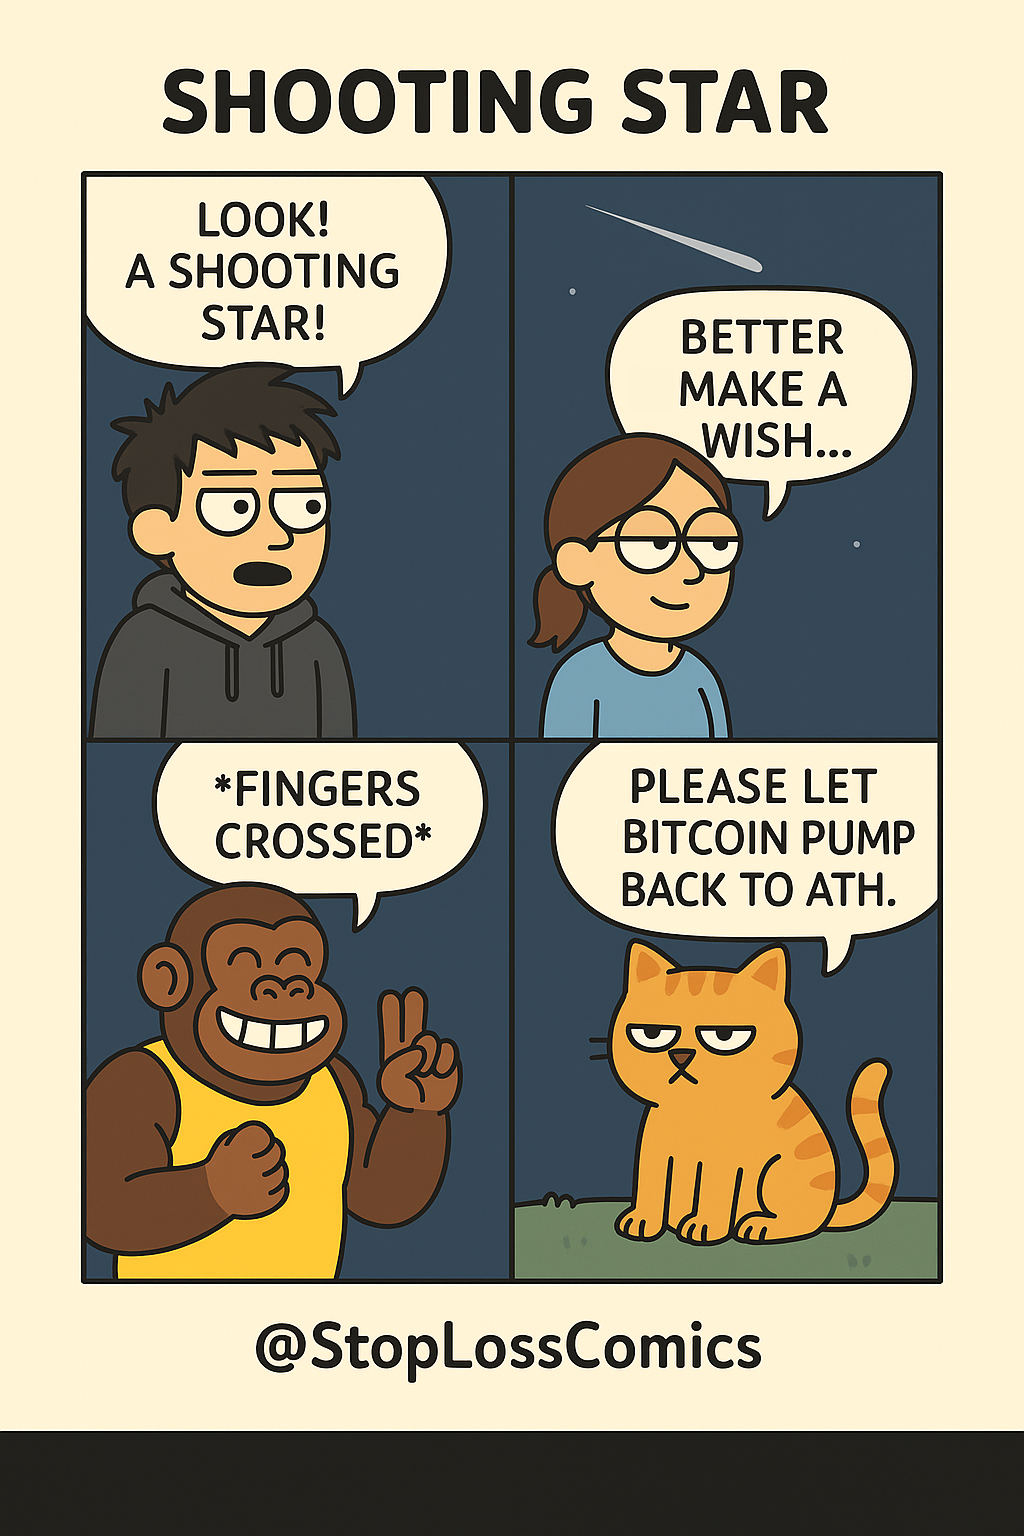
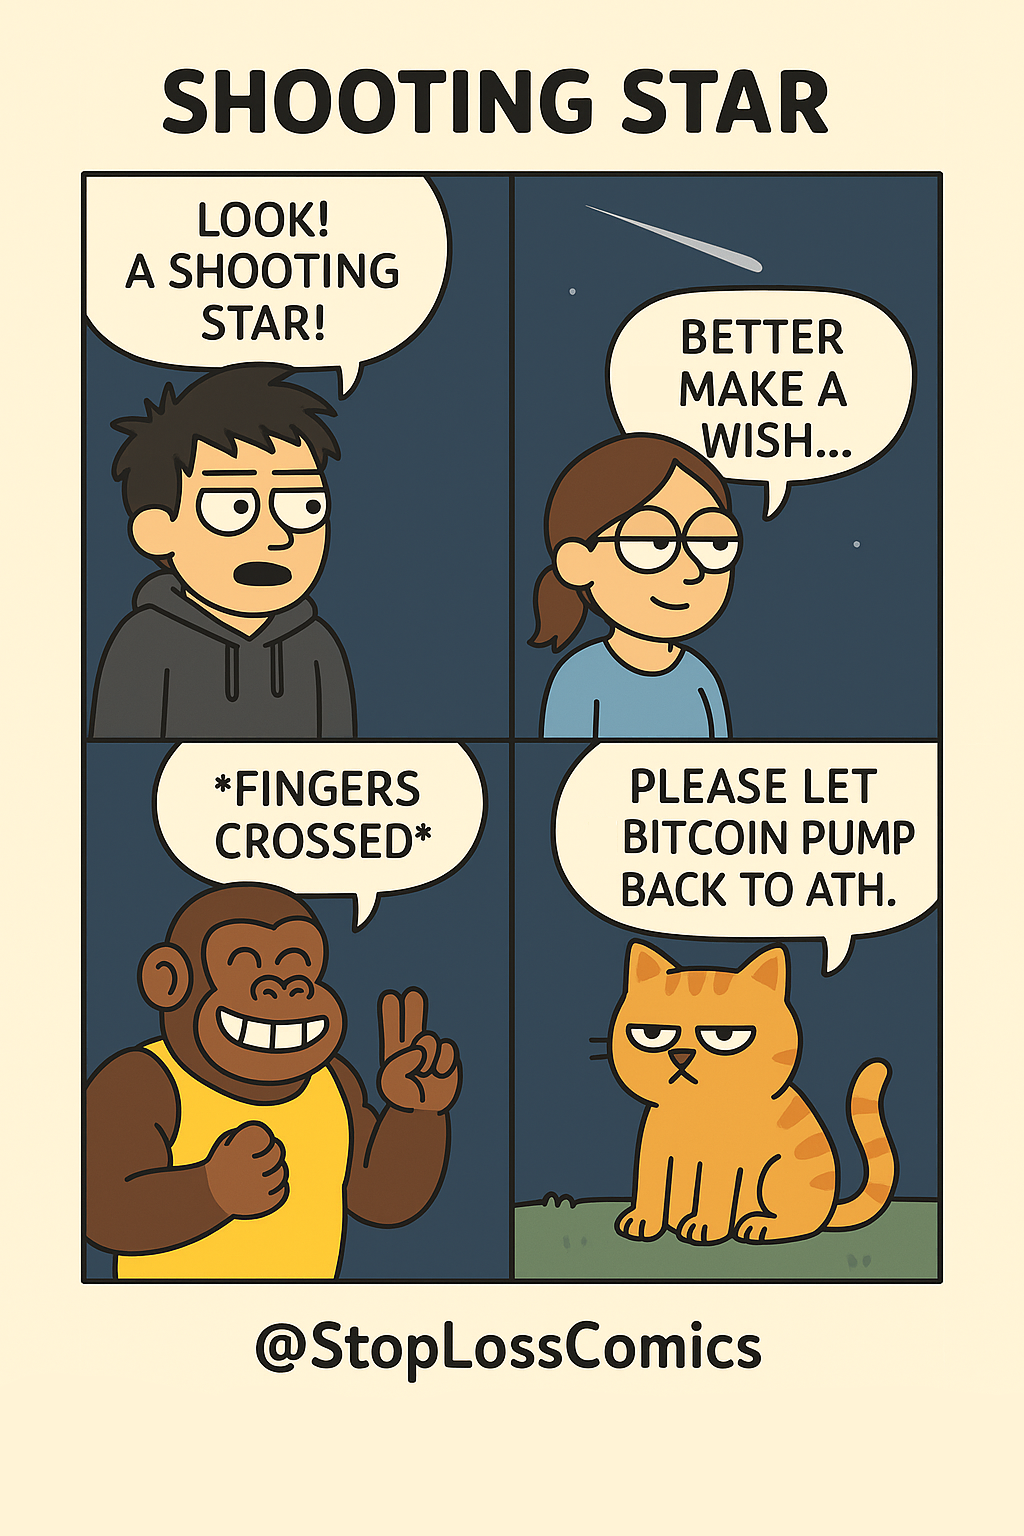
art and token

Changed region(s): [[0.0, 0.9062, 1.0, 1.0]]

diff --git a/src/App.jsx b/src/App.jsx
@@ -41,7 +41,7 @@ function linkify(text) {
     if (part.match(urlRegex)) {
       const label =
         part.includes("x.com") || part.includes("twitter.com")
-          ? "View on X"
+          ? "View more"
           : part;
 
       return (
